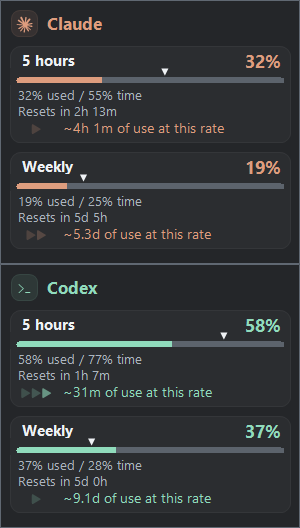
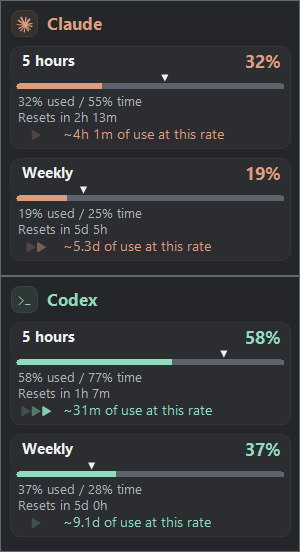
Give elapsed-time markers a clear band below quota percentages

diff --git a/src/Taskcode.Probe/Indicator.cs b/src/Taskcode.Probe/Indicator.cs
@@ -343,7 +343,7 @@ namespace Taskcode.Probe
             ControlBox = false;
             ShowInTaskbar = false;
             StartPosition = FormStartPosition.Manual;
-            ClientSize = new Size(300, 264);
+            ClientSize = new Size(300, 276);
             BackColor = Color.FromArgb(29, 32, 36);
             ForeColor = Color.FromArgb(238, 241, 245);
             Font = new Font("Segoe UI", 10f);
@@ -352,7 +352,7 @@ namespace Taskcode.Probe
             providerLabel = AddText(provider, 44, 11, 10, FontStyle.Bold, providerColor);
             providerLabel.AutoSize = false; providerLabel.Size = new Size(230, 26); providerLabel.TextAlign = ContentAlignment.MiddleLeft;
             AddQuota(this.usage.Readings[providerIndex * 2], 50);
-            AddQuota(this.usage.Readings[providerIndex * 2 + 1], 156);
+            AddQuota(this.usage.Readings[providerIndex * 2 + 1], 162);
             KeyDown += delegate(object sender, KeyEventArgs e) { if (e.KeyCode == Keys.Escape) Hide(); };
             FormClosing += delegate(object sender, FormClosingEventArgs e) { if (e.CloseReason == CloseReason.UserClosing) { e.Cancel = true; Hide(); } };
             periodTimer.Tick += delegate { RefreshPeriods(); };
@@ -387,13 +387,13 @@ namespace Taskcode.Probe
             int valueWidth = Math.Max(72, TextRenderer.MeasureText("100%", valueCaption.Font).Width + 6);
             valueCaption.AutoSize = false; valueCaption.Location = new Point(284 - valueWidth, y - 2);
             valueCaption.Size = new Size(valueWidth, 24); valueCaption.TextAlign = ContentAlignment.TopRight;
-            var budgetCaption = AddText("", 16, y + 36, 8, FontStyle.Regular, Color.LightGray);
-            var caption = AddText("", 16, y + 52, 8, FontStyle.Regular, Color.LightGray);
-            var speedCaption = new SpeedReadout { Location = new Point(16, y + 68), Size = new Size(268, 20), ForeColor = color, Tag = provider.ToLowerInvariant() };
+            var budgetCaption = AddText("", 16, y + 42, 8, FontStyle.Regular, Color.LightGray);
+            var caption = AddText("", 16, y + 58, 8, FontStyle.Regular, Color.LightGray);
+            var speedCaption = new SpeedReadout { Location = new Point(16, y + 74), Size = new Size(268, 20), ForeColor = color, Tag = provider.ToLowerInvariant() };
             Controls.Add(speedCaption);
             Controls.Add(new QuotaBar
             {
-                Location = new Point(10, y + 18), Size = new Size(280, 17),
+                Location = new Point(10, y + 24), Size = new Size(280, 17),
                 Period = reading.Period, Reading = reading, SpeedCaption = speedCaption, ValueCaption = valueCaption,
                 Provider = provider.ToLowerInvariant(), Theme = theme, Caption = caption, BudgetCaption = budgetCaption,
                 AccessibleName = provider + ", " + window + ", " + used + " percent used"
@@ -470,9 +470,9 @@ namespace Taskcode.Probe
         {
             base.OnPaint(e);
             e.Graphics.SmoothingMode = SmoothingMode.AntiAlias;
-            var state = e.Graphics.Save(); e.Graphics.ScaleTransform(Width / 300f, Height / 264f);
-            foreach (int y in new[] { 46, 152 })
-                UiSurface.Draw(e.Graphics, new RectangleF(10, y, 280, 96), UiSurface.Card(theme), UiSurface.Blend(theme.PreviewBackground, theme.Text, .08), 10);
+            var state = e.Graphics.Save(); e.Graphics.ScaleTransform(Width / 300f, Height / 276f);
+            foreach (int y in new[] { 46, 158 })
+                UiSurface.Draw(e.Graphics, new RectangleF(10, y, 280, 102), UiSurface.Card(theme), UiSurface.Blend(theme.PreviewBackground, theme.Text, .08), 10);
             var accent = ProviderIndex == 0 ? theme.Claude : theme.Codex;
             UiSurface.Draw(e.Graphics, new RectangleF(11, 10, 26, 26), UiSurface.Blend(theme.PreviewBackground, accent, .10), UiSurface.Blend(theme.PreviewBackground, accent, .18), 8);
             e.Graphics.Restore(state);

diff --git a/src/Taskcode.Probe/DetailChecks.cs b/src/Taskcode.Probe/DetailChecks.cs
@@ -23,7 +23,7 @@ namespace Taskcode.Probe
                     Check(image.GetPixel(x, 11).ToArgb() == (x < boundary ? bar.Theme.Claude : bar.Theme.Track).ToArgb(), "Colored fill must grow with consumed quota, including empty and exhausted limits.");
             }
             foreach (int provider in new[] { 0, 1 })
-            using (var panel = new DetailWindow(new UsageDemo(), provider) { Location = new Point(-30000, -30000), HoverAnchor = new Rectangle(-30000, -29728, 150, 40) })
+            using (var panel = new DetailWindow(new UsageDemo(), provider) { Location = new Point(-30000, -30000), HoverAnchor = new Rectangle(-30000, -29716, 150, 40) })
             {
                 var foreground = Native.GetForegroundWindow();
                 panel.Show();
@@ -35,13 +35,15 @@ namespace Taskcode.Probe
                 Check(panel.TopMost && (Native.GetStyle(panel.Handle, -20).ToInt64() & 8L) != 0,
                     "Hover cards must appear above the foreground app and topmost taskbar without requiring click activation.");
                 Check(panel.FormBorderStyle == FormBorderStyle.None && !panel.ControlBox && !panel.ShowInTaskbar, "Details must be a borderless card without native title/close controls.");
-                Check(panel.ClientSize.Height <= 264, "The compact card must fit the budget and speed rows with breathing room between sections.");
+                Check(panel.ClientSize.Height <= 276, "The compact card must fit the budget and speed rows with breathing room between sections.");
                 foreach (Control control in panel.Controls)
                 {
                     var bar = control as QuotaBar;
                     if (bar != null)
                     {
                         Check(TextRenderer.MeasureText("100%", bar.ValueCaption.Font).Width <= bar.ValueCaption.Width, "The percentage must fit completely.");
+                        Check(!bar.Bounds.IntersectsWith(bar.ValueCaption.Bounds) && bar.Bottom <= bar.BudgetCaption.Top,
+                            "The full elapsed-time marker must have its own band, unobstructed by percentage or timing labels at either endpoint.");
                         Check(bar.BudgetCaption.Text.Contains("% used / ") && bar.BudgetCaption.Text.Contains("% time"), "Details must expose consumption versus elapsed time directly.");
                         Check(bar.SpeedCaption.Visible && bar.SpeedCaption.HasArrows, "Active sample histories must expose speed arrows and their time estimate.");
                         Check(panel.ClientRectangle.Contains(bar.SpeedCaption.Bounds), "The restored speed row must fit the card.");
